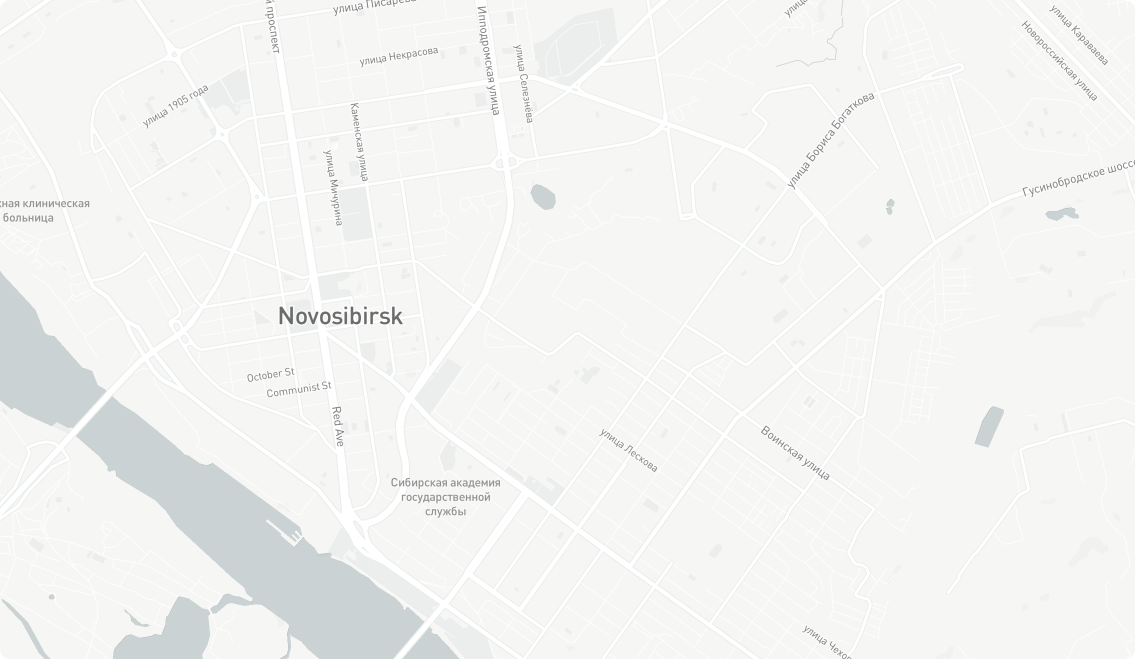
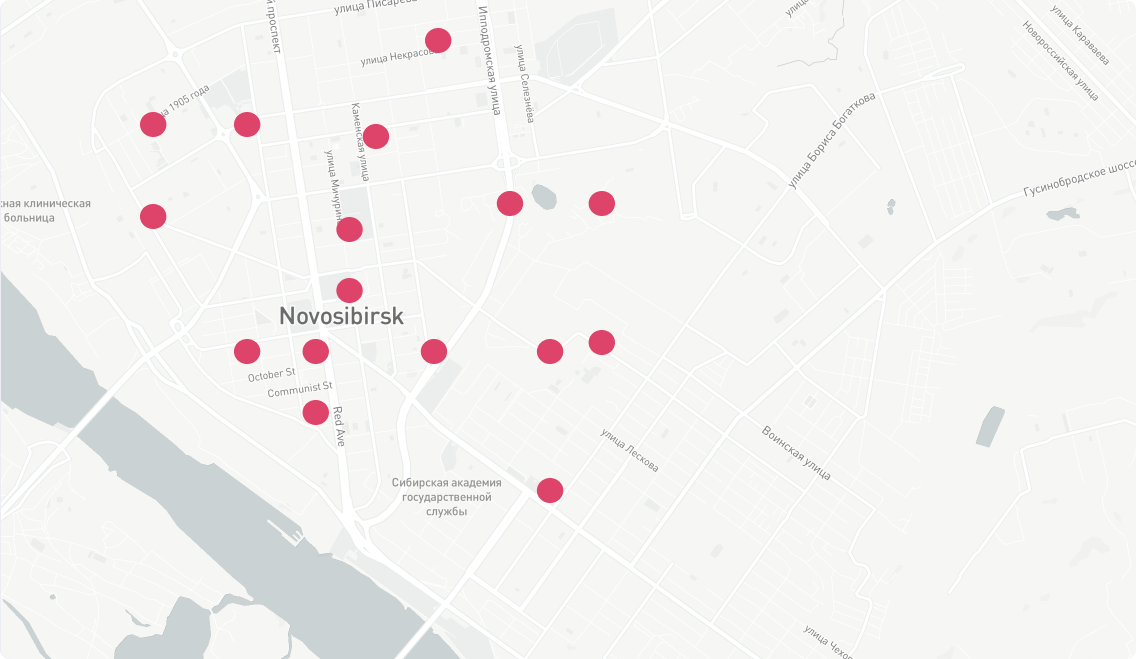
Some admin changes

diff --git a/Admin/Sources/src/pages/main/MainPage.js b/Admin/Sources/src/pages/main/MainPage.js
@@ -15,7 +15,7 @@ export class MainPage extends Component {
         return (
             <div className="main-page">
                 <div className="main-page__container">
-                    <div class="main-page__info-container">
+                    <div className="main-page__info-container">
                         <InfoBlock
                             icon={UsersIcon}
                             count={62}
@@ -36,6 +36,12 @@ export class MainPage extends Component {
                             count={180}
                             subtitle={'Запросов'}
                         ></InfoBlock>
+                    </div>
+                    <div className="main-page__map-container">
+                        <div className="main-page__map">
+                            <img src={MapImg}></img>
+                        </div>
+                        <div className="main-page__form"></div>
                     </div>
                 </div>
             </div>

diff --git a/Admin/Sources/src/menu/Menu.js b/Admin/Sources/src/menu/Menu.js
@@ -8,6 +8,29 @@ import UsersPageIcon from '../assets/UsersPageIcon.svg'
 import ReviwsPageIcon from '../assets/ReviewsPageIcon.svg'
 import Logout from '../assets/Logout.svg'
 
+const items = [
+    {
+        path: '/',
+        text: 'Главная',
+        icon: MainPageIcon,
+    },
+    {
+        path: '/places',
+        text: 'Места',
+        icon: PlacesPageIcon,
+    },
+    {
+        path: '/reviews',
+        text: 'Отзывы',
+        icon: ReviwsPageIcon,
+    },
+    {
+        path: '/users',
+        text: 'Пользователи',
+        icon: UsersPageIcon,
+    },
+]
+
 export class Menu extends Component {
     static propTypes = {}
 

diff --git a/Admin/Sources/src/App.js b/Admin/Sources/src/App.js
@@ -1,19 +1,12 @@
-import logo from './logo.svg'
-import './App.css'
-import MainPage from './pages/main/MainPage'
-import Menu from './menu/Menu'
+import React from 'react'
+import { BrowserRouter } from 'react-router-dom'
+import Layout from './Layout'
 
 function App() {
     return (
-        <div className="App">
-            <Menu></Menu>
-            <div className="wrapper">
-                <div className="toolbar"></div>
-                <div className="page-container">
-                    <MainPage></MainPage>
-                </div>
-            </div>
-        </div>
+        <BrowserRouter>
+            <Layout />
+        </BrowserRouter>
     )
 }
 

diff --git a/Admin/Sources/src/pages/main/MainPage.scss b/Admin/Sources/src/pages/main/MainPage.scss
@@ -10,16 +10,18 @@
 
     &__info-container {
         display: flex;
-        justify-content: space-between;
         background-color: aquamarine;
     }
 
     &__map-container {
         display: flex;
         justify-content: space-between;
+    }
+
+    &__map {
         img {
-            height: 67%;
-            width: 74%;
+            width: 60vw;
+            height: 61vh;
         }
     }
 
